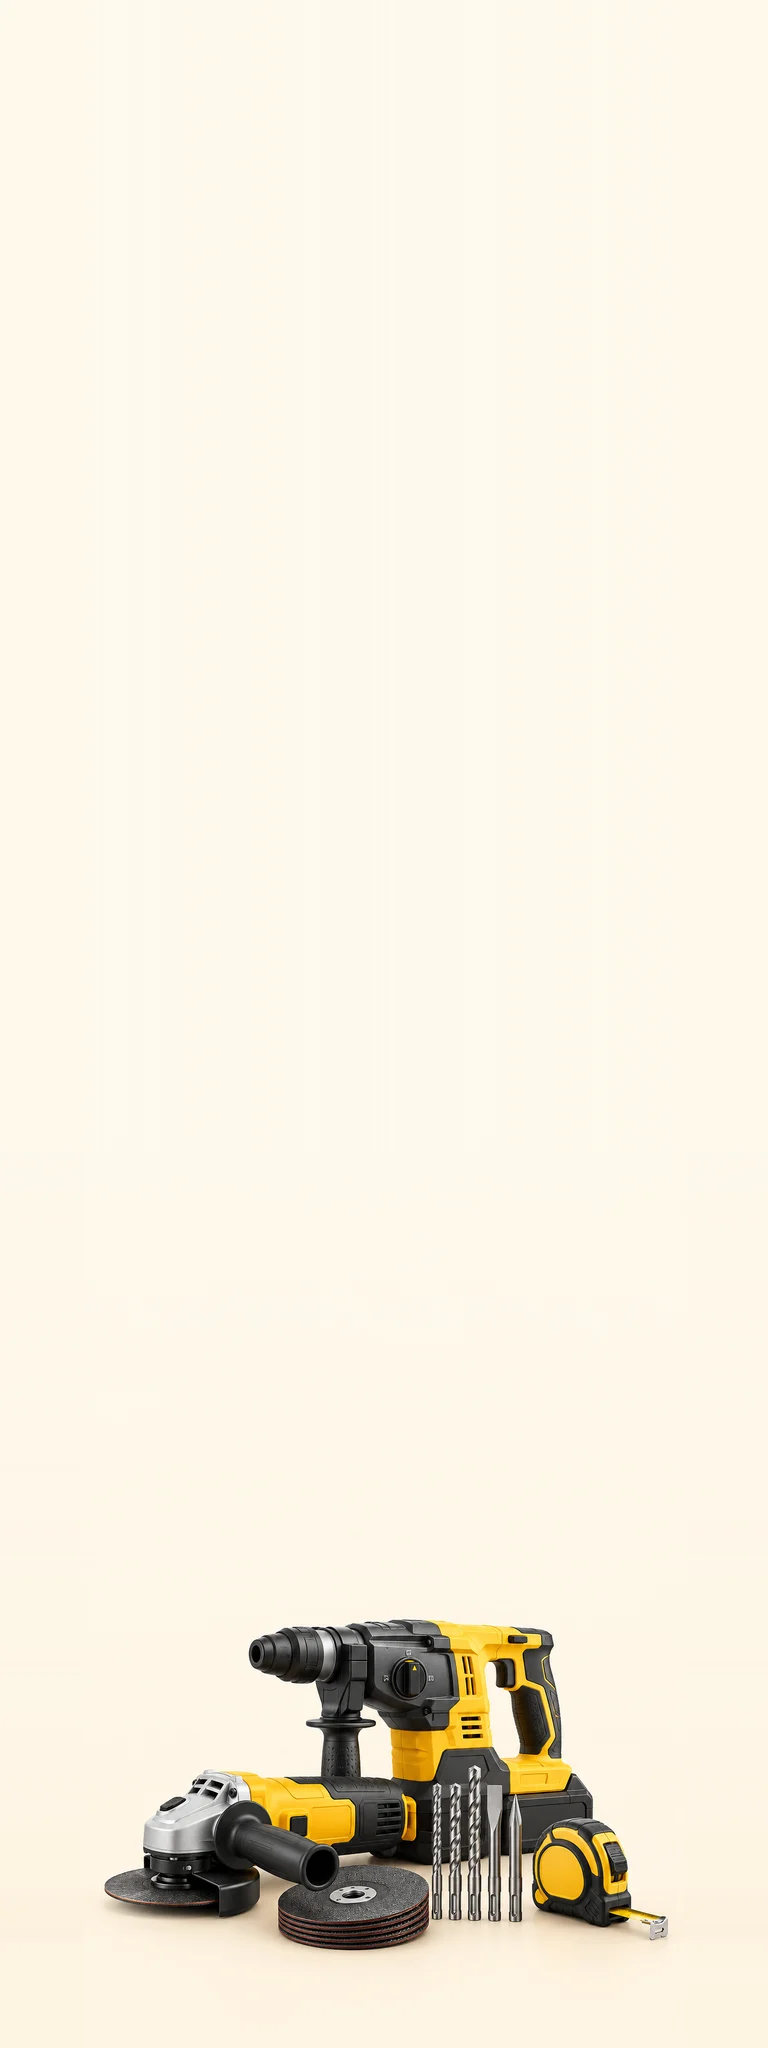
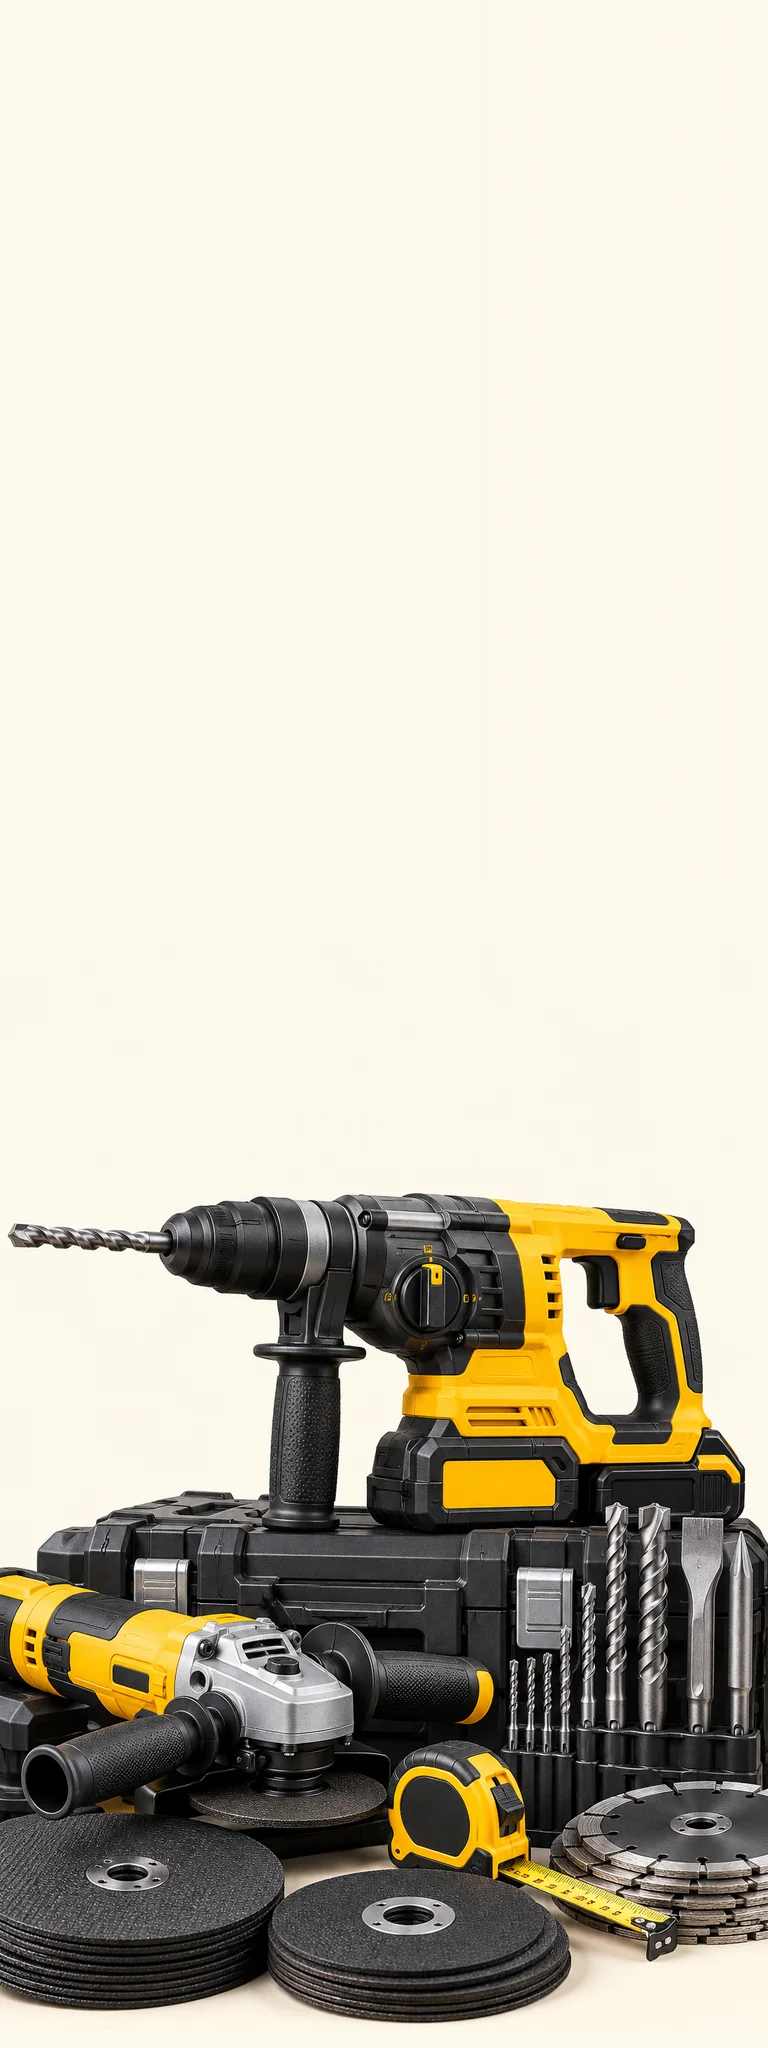
feat(me-brand): 楼层图换 GPT 重绘高堆叠版 + 主视觉不再自动轮播
楼层六图:新原图(物件高堆叠占下半幅)按撑满 768 宽、贴底、顶部按列延伸底色重排,
分量与 matgo 现网一致。主视觉按廖总意见去掉自动轮播:默认首张,圆点/箭头手动切,
单张时不显示控件;删掉逐张时长与悬停暂停逻辑。

diff --git a/frontend/src/components/mall/HeroBannerCarousel.tsx b/frontend/src/components/mall/HeroBannerCarousel.tsx
@@ -1,24 +1,22 @@
 "use client";
 
-import { useCallback, useEffect, useMemo, useRef, useState } from "react";
+import { useCallback, useMemo, useState } from "react";
 import { ChevronLeft, ChevronRight } from "lucide-react";
 import Link from "next/link";
 import useSWR from "swr";
 import { bannersApi } from "@/lib/api/banners";
 import { imageUrl } from "@/lib/env";
 
-const AUTOPLAY_INTERVAL = Number(process.env.NEXT_PUBLIC_BANNER_INTERVAL_MS) || 5000;
-
 /**
- * 首页轮播 — 展示版与 matgo 共用后端:前面放前端自带的本品牌海报(public/banners),
- * 后面接后端轮播(GET /api/v1/banners),但去掉 matgo 自己的东非绿色主海报。
+ * 首页主视觉 — 前面放前端自带的本品牌海报(public/banners),后面接后端轮播
+ * (GET /api/v1/banners),但去掉 matgo 自己的东非绿色主海报。
+ * 不自动轮播(廖总 2026-10-21 定):默认停在第一张,只能靠圆点/箭头手动切换;
+ * 只有一张时不显示圆点和箭头。
  */
 interface Slide {
   src: string;
   alt: string;
   link: string | null;
-  /** 本张停留时长(ms),缺省用 AUTOPLAY_INTERVAL */
-  durationMs?: number;
 }
 
 /** 判断 slide 是否在当前可见窗口内（当前 ± 1），用于按需挂载 DOM */
@@ -30,7 +28,7 @@ function isNearby(index: number, current: number, total: number): boolean {
 }
 
 const OWN_SLIDES: Slide[] = [
-  { src: "/banners/hero-overseas.jpg", alt: "Source China Building Materials for the World", link: null, durationMs: 10_000 },
+  { src: "/banners/hero-overseas.jpg", alt: "Source China Building Materials for the World", link: null },
 ];
 
 /** matgo 的东非绿色主海报(库里 sort_order 0),展示版不放 */
@@ -53,8 +51,6 @@ export function HeroBannerCarousel() {
     [rows],
   );
   const [current, setCurrent] = useState(0);
-  const [isPaused, setIsPaused] = useState(false);
-  const timerRef = useRef<ReturnType<typeof setTimeout> | undefined>(undefined);
   const count = slides.length;
 
   const goTo = useCallback(
@@ -64,25 +60,13 @@ export function HeroBannerCarousel() {
   const next = useCallback(() => setCurrent((c) => (count ? (c + 1) % count : 0)), [count]);
   const prev = useCallback(() => setCurrent((c) => (count ? (c - 1 + count) % count : 0)), [count]);
 
-  // 按当前张的停留时长单次计时;切到下一张(含手动切换)时重新计时
-  const currentDuration = slides[current]?.durationMs ?? AUTOPLAY_INTERVAL;
-  useEffect(() => {
-    if (count <= 1 || isPaused) return;
-    timerRef.current = setTimeout(next, currentDuration);
-    return () => clearTimeout(timerRef.current);
-  }, [count, isPaused, next, current, currentDuration]);
-
   // 加载中 / 无数据:保留占位背景,不塌陷布局
   if (count === 0) {
     return <div className="w-full h-full rounded-xl bg-gray-100" />;
   }
 
   return (
-    <div
-      className="relative w-full h-full rounded-xl overflow-hidden group"
-      onMouseEnter={() => setIsPaused(true)}
-      onMouseLeave={() => setIsPaused(false)}
-    >
+    <div className="relative w-full h-full rounded-xl overflow-hidden group">
       {slides.map((slide, i) => {
         // 只渲染当前 ± 1 张，其余不挂载 DOM
         if (!isNearby(i, current, count)) return null;
